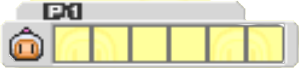
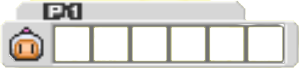
Add power up handicap

diff --git a/src/main/java/it/unibo/unibomber/game/controller/impl/Option.java b/src/main/java/it/unibo/unibomber/game/controller/impl/Option.java
@@ -7,6 +7,7 @@ import java.util.Arrays;
 import java.util.stream.IntStream;
 
 import it.unibo.unibomber.game.controller.api.GameLoop;
+import it.unibo.unibomber.game.ecs.api.PowerUpType;
 import it.unibo.unibomber.game.model.impl.OptionButtonImpl;
 import it.unibo.unibomber.game.view.OptionView;
 import it.unibo.unibomber.utilities.Constants.UI.Screen;
@@ -20,7 +21,7 @@ import static it.unibo.unibomber.utilities.Constants.UI.MapOption;
 public class Option extends StateImpl implements MouseListener, GameLoop {
 
     private final OptionView view;
-    private OptionButtonImpl[] optionButtons = new OptionButtonImpl[8 + MapOption.getNumberOfBot()];
+    private OptionButtonImpl[] optionButtons = new OptionButtonImpl[15 + MapOption.getNumberOfBot()];
     private final WorldImpl world;
 
     /**
@@ -49,7 +50,7 @@ public class Option extends StateImpl implements MouseListener, GameLoop {
                 Screen.getgWidth() - (Buttons.getOptionButtonSize() + (OptionButton.WIDTH_INCREMENT * 2)),
                 Screen.getgHeight() - (Buttons.getOptionButtonSize() + OptionButton.WIDTH_INCREMENT),
                 3, Buttons.getOptionButtonSize() + OptionButton.WIDTH_INCREMENT,
-                Buttons.getOptionButtonSize(), "ok");
+                Buttons.getOptionButtonSize() - OptionButton.WIDTH_INCREMENT, "ok");
         optionButtons[4] = new OptionButtonImpl(this, OptionButton.WIDTH_INCREMENT,
                 OptionButton.WIDTH_INCREMENT + MapOption.getMapDimension() + OptionButton.HEIGHT_BOTNUMBER_SELECTION,
                 7, OptionButton.getBombNumberDimension(), OptionButton.getBombNumberDimension(), "botNumber");
@@ -65,8 +66,17 @@ public class Option extends StateImpl implements MouseListener, GameLoop {
         optionButtons[7] = new OptionButtonImpl(this, OptionButton.getPlyerSelectioBorderDistance(),
                 optionButtons[4].getY() + optionButtons[4].getH() + OptionButton.PLAYER_WIDTH_INCREMENT,
                 4, OptionButton.getPlyerSelectionWidth(), OptionButton.getPlyerSelectionHeight(), "player");
-        // 1 scalare quando > 4
         setBot();
+        setPowerUp();
+        optionButtons[21] = new OptionButtonImpl(this, OptionButton.WIDTH_INCREMENT * 2 + (Buttons.getOptionButtonSize() / 2 + OptionButton.WIDTH_INCREMENT / 2)*5,
+        OptionButton.getPowerUpSetTopDistance()
+                + (Buttons.getOptionButtonSize() - Buttons.getOptionButtonSize() / 2) / 2,
+        15, Buttons.getOptionButtonSize() / 2 + OptionButton.WIDTH_INCREMENT, Buttons.getOptionButtonSize() / 2, "delete");
+        
+        optionButtons[22] = new OptionButtonImpl(this, OptionButton.WIDTH_INCREMENT * 3 + (Buttons.getOptionButtonSize() / 2 + OptionButton.WIDTH_INCREMENT / 2)*6,
+        OptionButton.getPowerUpSetTopDistance()
+                + (Buttons.getOptionButtonSize() - Buttons.getOptionButtonSize() / 2) / 2,
+        16, Buttons.getOptionButtonSize() / 2 + OptionButton.WIDTH_INCREMENT, Buttons.getOptionButtonSize() / 2, "deleteAll");
     }
 
     /**
@@ -105,13 +115,11 @@ public class Option extends StateImpl implements MouseListener, GameLoop {
                 mb.setMousePressed(true);
                 if ("player".equals(mb.getType())) {
                     optionButtons[7] = new OptionButtonImpl(this, OptionButton.getPlyerSelectioBorderDistance(),
-                            OptionButton.PLAYER_WIDTH_INCREMENT + MapOption.getMapDimension()
-                                    + (OptionButton.WIDTH_INCREMENT * 10),
+                            optionButtons[4].getY() + optionButtons[4].getH() + OptionButton.PLAYER_WIDTH_INCREMENT,
                             5, OptionButton.getPlyerSelectionWidth(), OptionButton.getPlyerSelectionHeight(), "player");
                 } else {
                     optionButtons[7] = new OptionButtonImpl(this, OptionButton.getPlyerSelectioBorderDistance(),
-                            OptionButton.PLAYER_WIDTH_INCREMENT + MapOption.getMapDimension()
-                                    + (OptionButton.WIDTH_INCREMENT * 10),
+                            optionButtons[4].getY() + optionButtons[4].getH() + OptionButton.PLAYER_WIDTH_INCREMENT,
                             4, OptionButton.getPlyerSelectionWidth(), OptionButton.getPlyerSelectionHeight(), "player");
                 }
             }
@@ -178,5 +186,20 @@ public class Option extends StateImpl implements MouseListener, GameLoop {
     private void resetBot() {
         IntStream.range(8, 8 + MapOption.getNumberOfBot())
                 .forEach(i -> optionButtons[i] = new OptionButtonImpl(null, 0, 0, 0, 0, 0, "empty"));
+    }
+
+    /**
+     * Set power up buttons.
+     */
+    private void setPowerUp() {
+        final int powerUpNumber = 5;
+        int basedWidth = 0;
+        for (int i = 0; i < powerUpNumber; i++) {
+            optionButtons[16 + i] = new OptionButtonImpl(this, OptionButton.WIDTH_INCREMENT * 2 + basedWidth,
+                    OptionButton.getPowerUpSetTopDistance()
+                            + (Buttons.getOptionButtonSize() - Buttons.getOptionButtonSize() / 2) / 2,
+                    10 + i, Buttons.getOptionButtonSize() / 2, Buttons.getOptionButtonSize() / 2, PowerUpType.BOMBUP);
+            basedWidth += Buttons.getOptionButtonSize() / 2 + OptionButton.WIDTH_INCREMENT / 2;
+        }
     }
 }

diff --git a/src/main/java/it/unibo/unibomber/game/model/impl/OptionButtonImpl.java b/src/main/java/it/unibo/unibomber/game/model/impl/OptionButtonImpl.java
@@ -1,8 +1,6 @@
 package it.unibo.unibomber.game.model.impl;
 
-import java.awt.Color;
 import java.awt.Graphics;
-import java.awt.Graphics2D;
 import java.awt.image.BufferedImage;
 import java.io.BufferedReader;
 import java.io.DataInputStream;
@@ -33,7 +31,8 @@ import static it.unibo.unibomber.utilities.Constants.UI.MapOption;
  * Menu Button settings implementation class.
  */
 public class OptionButtonImpl extends AbstractMenuButton implements GameLoop {
-  private final String type;
+  private String type;
+  private PowerUpType Ptype;
   private BufferedImage[] bufferImages;
   private final Logger logger = Logger.getLogger(OptionButtonImpl.class.getName());
   private final Option option;
@@ -54,9 +53,25 @@ public class OptionButtonImpl extends AbstractMenuButton implements GameLoop {
     this.type = type;
     loadbufferImages();
   }
+  /**
+   * @param option
+   * @param x
+   * @param y
+   * @param rowIndex
+   * @param w
+   * @param h
+   * @param Ptype
+   */
+  public OptionButtonImpl(final Option option, final int x, final int y, final int rowIndex, final int w, final int h,
+      final PowerUpType Ptype) {
+    super(x, y, w, h, Buttons.getOptionButtonSize() / 2, rowIndex);
+    this.option = option;
+    this.Ptype = Ptype;
+    loadbufferImages();
+  }
 
   private void loadbufferImages() {
-    bufferImages = new BufferedImage[10];
+    bufferImages = new BufferedImage[17];
     bufferImages[0] = UploadRes.getSpriteAtlas("menu/left.png");
     bufferImages[2] = UploadRes.getSpriteAtlas("menu/right.png");
     bufferImages[3] = UploadRes.getSpriteAtlas("menu/ok.png");
@@ -66,16 +81,19 @@ public class OptionButtonImpl extends AbstractMenuButton implements GameLoop {
     bufferImages[7] = UploadRes.getSpriteAtlas("menu/botNumber.png");
     bufferImages[8] = UploadRes.getSpriteAtlas("menu/+.png");
     bufferImages[9] = UploadRes.getSpriteAtlas("menu/-.png");
-
+    bufferImages[10] = UploadRes.getSpriteAtlas("powerUp/bomb_up.png");
+    bufferImages[11] = UploadRes.getSpriteAtlas("powerUp/fire_up.png");
+    bufferImages[12] = UploadRes.getSpriteAtlas("powerUp/speed_up.png");
+    bufferImages[13] = UploadRes.getSpriteAtlas("powerUp/bomb_kick.png");
+    bufferImages[14] = UploadRes.getSpriteAtlas("powerUp/power_glove.png");
+    bufferImages[15] = UploadRes.getSpriteAtlas("menu/delete.png");
+    bufferImages[16] = UploadRes.getSpriteAtlas("menu/delete_all.png");
   }
 
   @Override
   public final void draw(final Graphics g) {
     bufferImages[1] = MapOption.MAP_CHOSE_LIST.get(GameLoopConstants.getLEVEL());
     g.drawImage(bufferImages[this.getRowIndex()], this.getX(), this.getY(), this.getW(), this.getH(), null);
-    final Graphics2D g2 = (Graphics2D) g;
-    g2.setColor(Color.BLACK);
-    g2.drawRect(this.getX(), this.getY(), this.getW(), this.getH());
   }
 
   @Override
@@ -177,5 +195,11 @@ public class OptionButtonImpl extends AbstractMenuButton implements GameLoop {
    */
   public String getType() {
     return type;
+  }
+  /**
+   * @return type of button.
+   */
+  public PowerUpType getPType() {
+    return Ptype;
   }
 }

diff --git a/src/main/java/it/unibo/unibomber/game/view/OptionView.java b/src/main/java/it/unibo/unibomber/game/view/OptionView.java
@@ -1,5 +1,6 @@
 package it.unibo.unibomber.game.view;
 
+import java.awt.Color;
 import java.awt.Graphics;
 import java.awt.Graphics2D;
 
@@ -7,6 +8,9 @@ import it.unibo.unibomber.game.controller.api.GameLoop;
 import it.unibo.unibomber.game.controller.impl.Option;
 import it.unibo.unibomber.game.model.impl.OptionButtonImpl;
 import it.unibo.unibomber.utilities.Constants;
+import it.unibo.unibomber.utilities.Constants.UI.Buttons;
+import it.unibo.unibomber.utilities.Constants.UI.OptionButton;
+
 import static it.unibo.unibomber.utilities.Constants.UI.OptionButton.OPTION_BACKGROUND;
 
 /**
@@ -14,7 +18,6 @@ import static it.unibo.unibomber.utilities.Constants.UI.OptionButton.OPTION_BACK
  */
 public final class OptionView implements GameLoop {
         private final Option controller;
-
         /**
          * @param controller
          */
@@ -32,13 +35,16 @@ public final class OptionView implements GameLoop {
         @Override
         public void draw(final Graphics g) {
                 final Graphics2D g2 = (Graphics2D) g;
-                // background
                 g2.setColor(OPTION_BACKGROUND);
                 g2.fillRect(0, 0, Constants.UI.Screen.getgWidth(), Constants.UI.Screen.getgHeight());
+                Graphics2D g3 = (Graphics2D) g;
+                g3.setColor(new Color(214, 214, 214));
+                g3.fillRoundRect(OptionButton.WIDTH_INCREMENT, OptionButton.getPowerUpSetTopDistance(), 300, Buttons.getOptionButtonSize() - OptionButton.WIDTH_INCREMENT, 5, 5);
                 for (final OptionButtonImpl mb : controller.getOptionButtons()) {
                         if (!"empty".equals(mb.getType())) {
                                 mb.draw(g);
                         }
                 }
+
         }
 }

diff --git a/src/main/java/it/unibo/unibomber/utilities/Constants.java b/src/main/java/it/unibo/unibomber/utilities/Constants.java
@@ -110,7 +110,9 @@ public class Constants {
                 OptionButton.incrementBotSize = OptionButton.bombNumberDimension / 2;
                 OptionButton.plyerSelectionWidth = OptionButton.PLAYER_SELECTION_WIDTH * (int) Buttons.scaleButton;
                 OptionButton.plyerSelectionHeight = OptionButton.PLAYER_SELECTION_HEIGHT * (int) Buttons.scaleButton;
-                OptionButton.plyerSelectioBorderDistance = (Screen.getgWidth() - (OptionButton.plyerSelectionWidth * 2 + 10)) / 2;
+                OptionButton.plyerSelectioBorderDistance = (Screen.getgWidth()
+                        - (OptionButton.plyerSelectionWidth * 2 + 10)) / 2;
+                OptionButton.powerUpSetTopDistance = Screen.getgHeight() - (Buttons.getOptionButtonSize() + OptionButton.WIDTH_INCREMENT);
             }
 
             /**
@@ -199,6 +201,16 @@ public class Constants {
              * player selection border distance scaled.
              */
             private static int plyerSelectioBorderDistance = (Screen.getgWidth() - (plyerSelectionWidth * 2 + 10)) / 2;
+            /**
+             * Top distance for power up set.
+             */
+            private static int powerUpSetTopDistance = Screen.getgHeight() - (Buttons.getOptionButtonSize() + OptionButton.WIDTH_INCREMENT);
+            /**
+             * @return Top distance for power up set.
+             */
+            public static int getPowerUpSetTopDistance() {
+                return powerUpSetTopDistance;
+            }
 
             /**
              * @return plyerSelectioBorderDistance.

diff --git a/src/main/java/it/unibo/unibomber/game/model/impl/EntityFactoryImpl.java b/src/main/java/it/unibo/unibomber/game/model/impl/EntityFactoryImpl.java
@@ -57,7 +57,7 @@ public class EntityFactoryImpl implements EntityFactory {
                                 .addComponent(new CollisionComponent(false, true, Math.round(position.getX()),
                                                 Math.round(position.getY()), Extension.Bomber.Collision.getCollide()))
                                 .addComponent(new BombPlaceComponent())
-                                .addComponent(new PowerUpHandlerComponent(2, 8, new ArrayList<>()))
+                                .addComponent(new PowerUpHandlerComponent(1, 1, new ArrayList<>()))
                                 .addComponent(new DestroyComponent());
         }
 

diff --git a/src/main/java/it/unibo/unibomber/game/model/impl/FieldImpl.java b/src/main/java/it/unibo/unibomber/game/model/impl/FieldImpl.java
@@ -6,14 +6,10 @@ import java.util.stream.Collectors;
 
 import it.unibo.unibomber.game.ecs.api.Entity;
 import it.unibo.unibomber.game.ecs.api.Type;
-import it.unibo.unibomber.game.ecs.impl.PowerUpListComponent;
 import it.unibo.unibomber.game.ecs.impl.ThrowComponent;
 import it.unibo.unibomber.game.model.api.Field;
 import it.unibo.unibomber.game.model.api.Game;
-import it.unibo.unibomber.utilities.Constants;
-import it.unibo.unibomber.utilities.Direction;
 import it.unibo.unibomber.utilities.Pair;
-import it.unibo.unibomber.utilities.Utilities;
 
 /**
  * Field is an object that manages the game field frame by frame.

diff --git a/src/main/java/it/unibo/unibomber/game/ecs/impl/AIComponent.java b/src/main/java/it/unibo/unibomber/game/ecs/impl/AIComponent.java
@@ -1,6 +1,5 @@
 package it.unibo.unibomber.game.ecs.impl;
 
-import java.lang.reflect.Array;
 import java.util.ArrayList;
 import java.util.Collections;
 import java.util.Deque;
@@ -112,6 +111,7 @@ public final class AIComponent extends AbstractComponent {
                int strength = this.getEntity().getComponent(PowerUpListComponent.class).get().getBombFire();
                addExplosionToMatrix(newMatrix, new Pair<>(Math.round(position.getX()), Math.round(position.getY())),strength , d, 0);
           }
+          return true;
      }
 
      private void placeBomb(Type[][] typesMatrix) {
